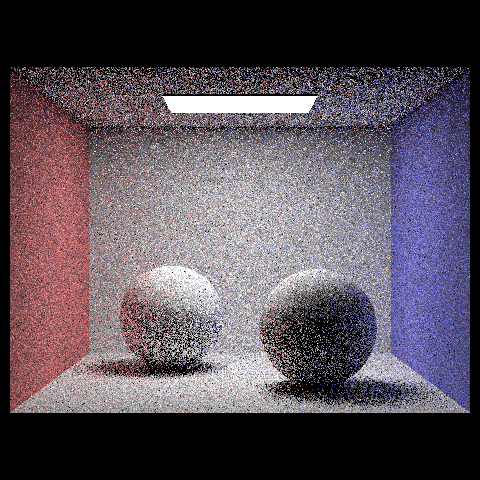
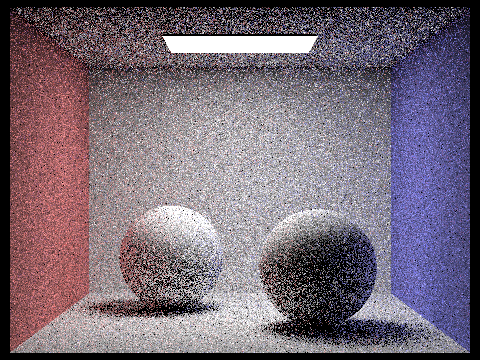
[minor] croped some wrong size images

diff --git a/docs/index.md b/docs/index.md
@@ -189,11 +189,13 @@ As we can see from the images above, both method converges to the true lighting 
 The global illumination rendering algorithm is basically recursively apply direct illumination algorithm, and terminate appropriately. For each bounce, we apply a global illumination calculation with correct weighting, and sample a new incoming light ray from the hit point. Then we apply Russian Roulette termination, see if we should terminate or continue to propagate light, if so, we incorporate a new direct light using the new ray and recurse. The base case is that the zero bounce case, where we only consider the light directly comes from the source to the camera. We also have some termination recursion if depth exceed a certain level, and force the algorithm to do at least one bounce if the max depth is greater than 1.
 
 <div align="middle">
-    <img src="images/p4_dragon_sample_1024.png" width="70%"/>
+    <img src="images/p4_dragon_sample_1024.png" width="50%"/>
     <figcaption align="middle">
         <code>dragon.dae</code> with 64 light rays and 1024 samples per pixel.
     </figcaption>
 </div>
+
+<br>
 
 <div align="middle">
     <table width="100%" align="middle">
